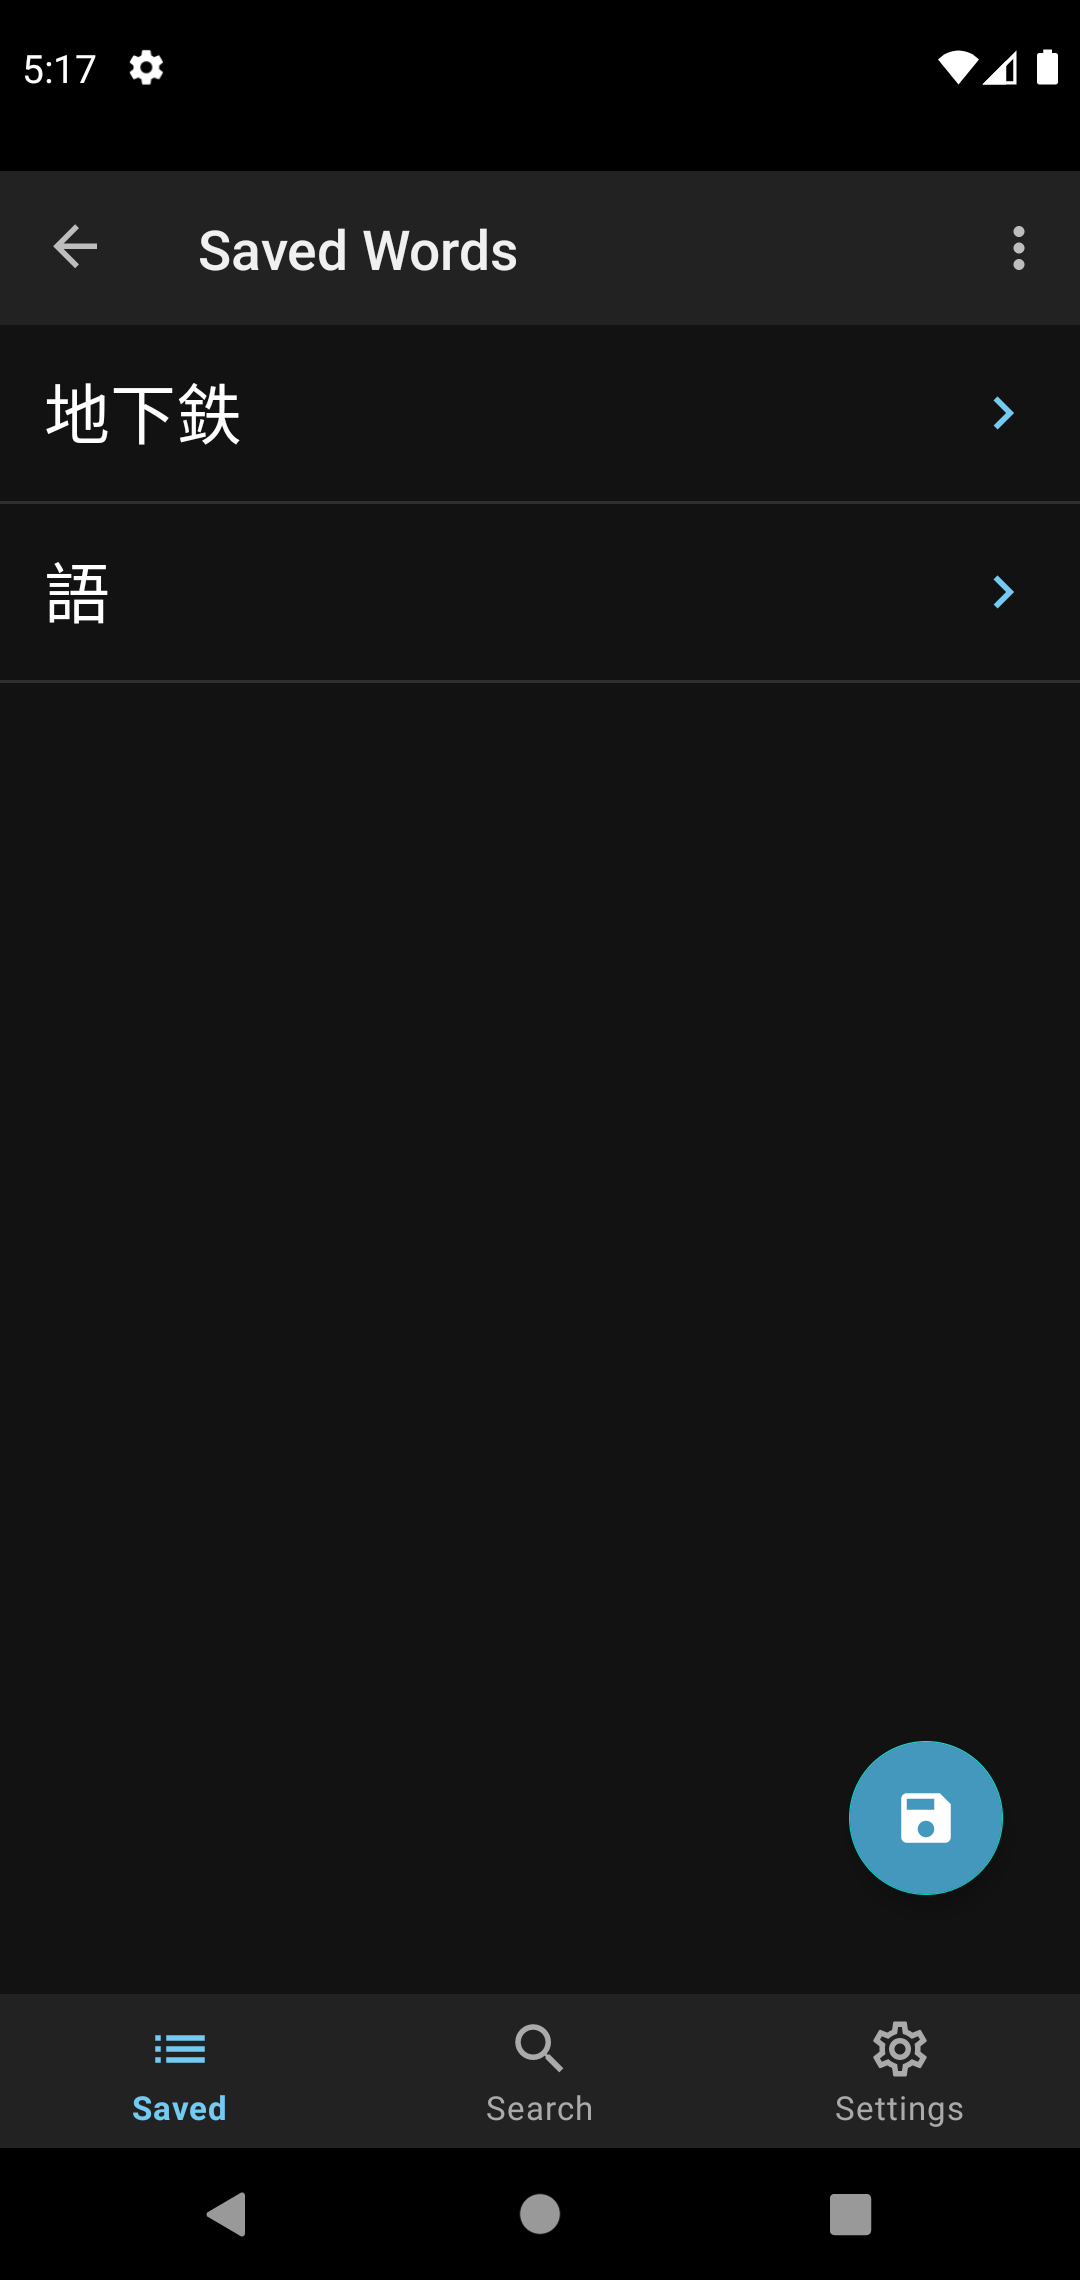
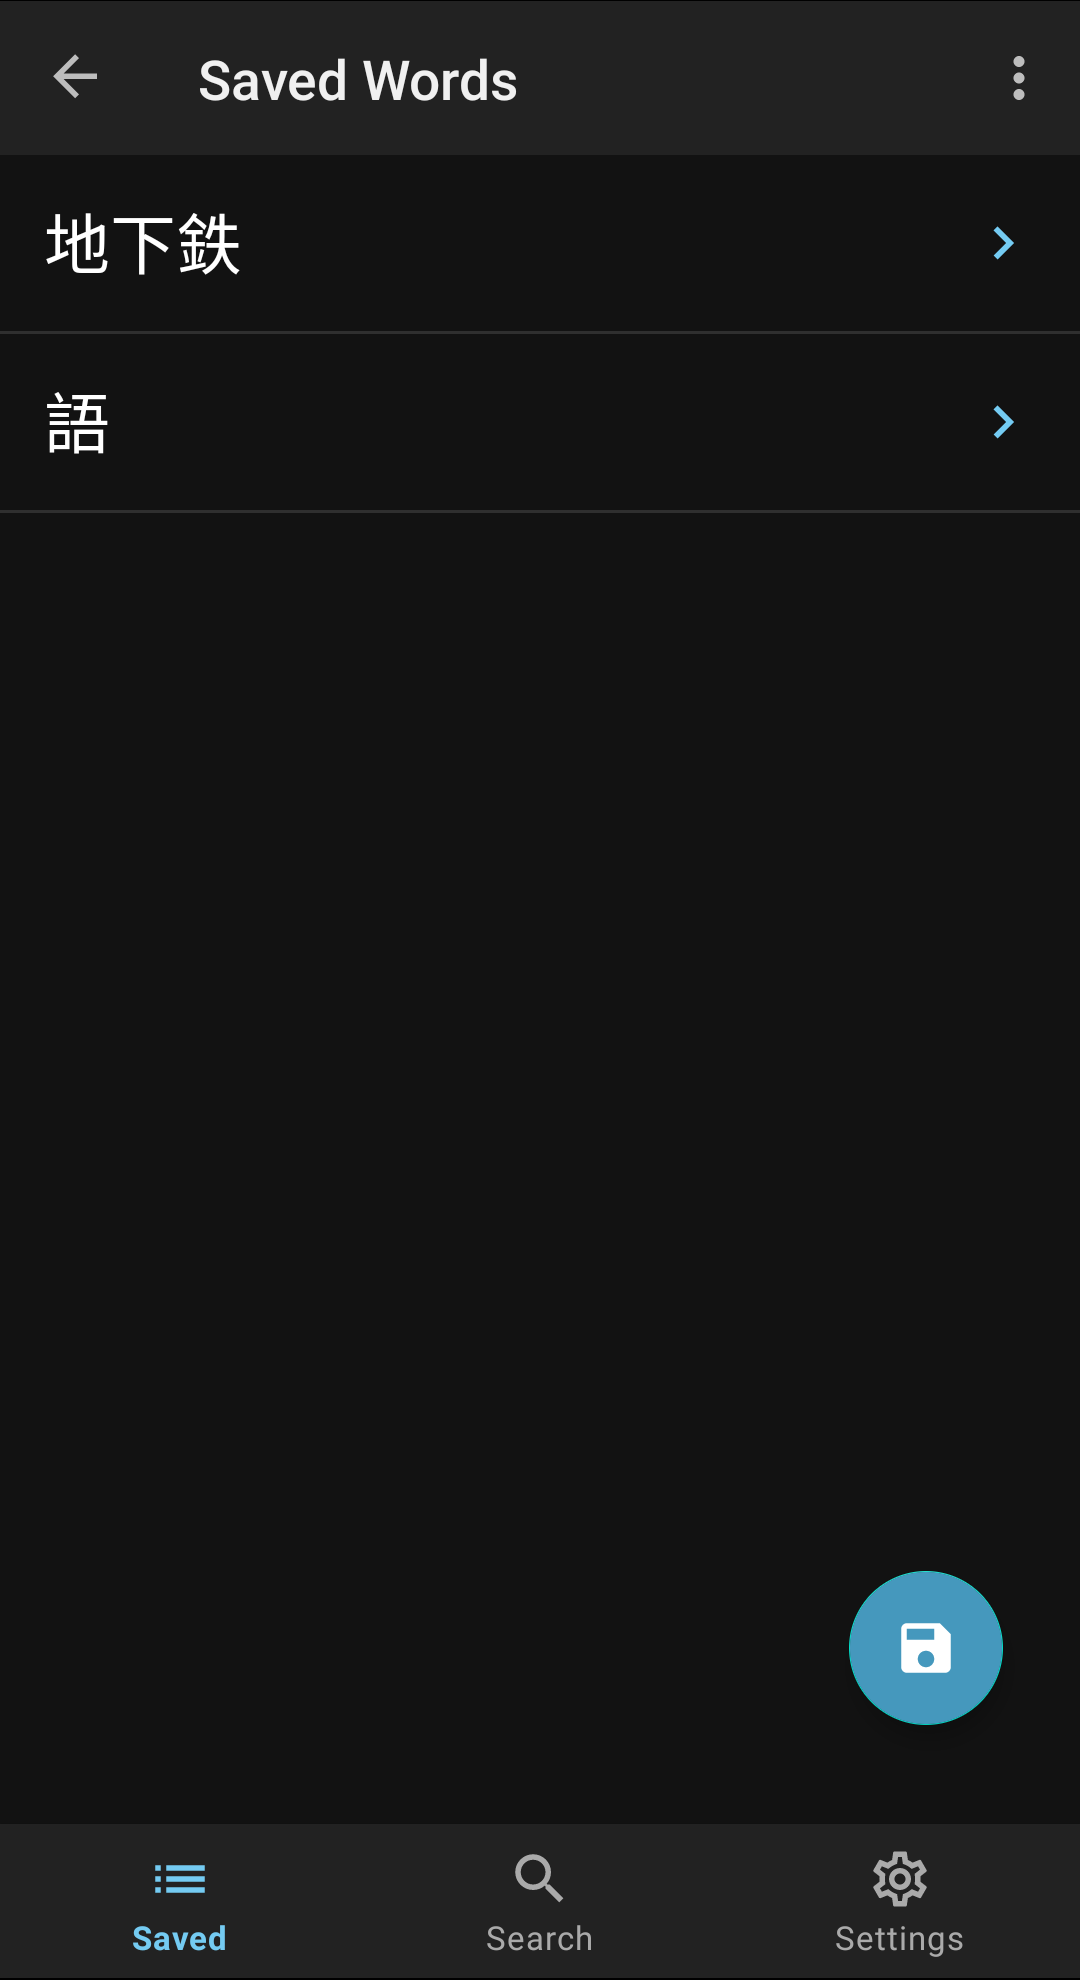
docs: update screenshots

diff --git a/README.md b/README.md
@@ -1,40 +1,32 @@
 # Rin
 
-Rin is a japanese popup dictionary app for Android that supports Yomichan dictionaries, frequency lists, and more. 
-It was inspired from Apple's highlight and lookup [feature](https://www.macrumors.com/how-to/look-up-word-definitions-ios-11/). 
+Rin is a minimal and lightning fast Japanese popup dictionary app for Android, inspired from Apple's highlight and lookup [feature](https://www.macrumors.com/how-to/look-up-word-definitions-ios-11/).
+The installable APK can be found in the latest [releases](https://github.com/kamui-fin/rin/releases/latest).
 
 Features include:
 
-- 
-
-
+- Blazing fast lookup times
+- Light/Dark mode
+- Automatic word de-inflection
+- Recursive lookups within definitions
+- Importing Yomichan dictionaries
+  - Frequency and pitch accent dictionaries supported
+  - Set dictionary priorities for search result ordering
+- Save words into a list
+- View word tags
 
 [![GPLv3 License](https://img.shields.io/badge/License-GPL%20v3-yellow.svg)](https://opensource.org/licenses/)
 
-# Installation
-
-
 ## Screenshots
 
-Here's how Rin works:
-
-<img src="screenshots/demo.gif" width="300">
-
-You can also lookup words _inside_ definitions:
-
-<img src="screenshots/demo2.gif" width="300">
-
-And the settings page looks like this:
-
-<img src="screenshots/settings.png" width="300">
+<img src="screenshots/search.png" width="400" />
+<img src="screenshots/word_detail.png" width="400" />
+<img src="screenshots/settings.png" width="400" />
+<img src="screenshots/manage_dicts.png" width="400" />
+<img src="screenshots/saved.png" width="400" />
+<img src="screenshots/light_mode.png" width="400" />
 
 ## Contributing
 
-Contributions are always welcome! Feel free to submit any feature requests, bug fixes, or enhancements through Github.
-
-## Todo
-
-- Background worker for import
-  - Cancel button
-- Improve documentation
-- Fix tag clone on save bug
+Rin is actively looking for new contributors!
+Feel free to submit any feature requests, bug fixes, or enhancements through Github.
